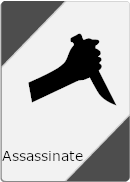
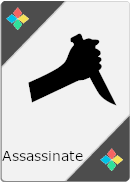
assassinate changes color now

Changed region(s): [[0.0308, 0.0275, 0.2154, 0.1648], [0.7692, 0.7967, 0.9538, 0.9341]]

diff --git a/EntityObjects/Cards/Wild/Assassinate.cs b/EntityObjects/Cards/Wild/Assassinate.cs
@@ -10,13 +10,12 @@ namespace EntityObjects.Cards.Wild
         {
             Id = Guid.NewGuid().ToString();
             ImageUrl = $"/images/cards/small/{(int)Color}/{Convert.ToInt32(limitColorChangingCards)}/{(int)Value}.png";
-            RequirePickColor = !limitColorChangingCards;
         }
         public string Id { get; }
         public CardColor Color => CardColor.Wild;
         public CardValue Value => CardValue.Assassinate;
         public string ImageUrl { get; }
-        public bool RequirePickColor { get; }
+        public bool RequirePickColor => true;
         public bool RequireTargetPlayer => true;
         public string Description => "Target a player and name a card, if that player has that card in their hand, they immediately discard it (and all the instances) and draws 3 cards. If the target doesn't have that card, nothing happens.";
 
